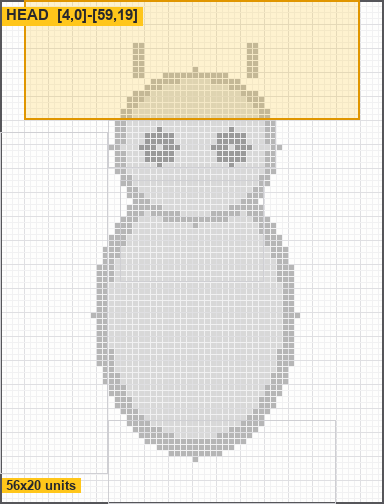
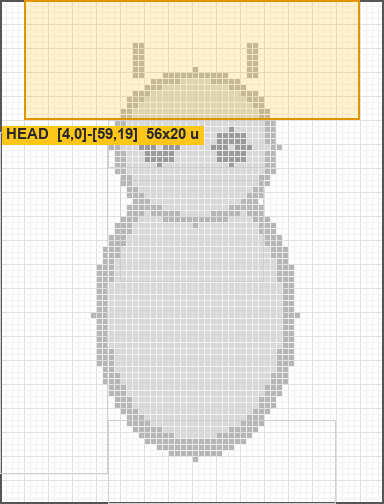
Move the slot-template label clear of the drawable box
The HEAD template's label sat inside the box (the head box spans the whole top),
covering part of the drawable area. Place each slot's label just below its box,
or just above when the box reaches the bottom edge (feet), and merge the two
labels into one line. Regenerated the five slot templates.

Changed region(s): [[0.0, 0.2381, 0.5312, 0.2976], [0.0, 0.0, 0.375, 0.0595], [0.0, 0.9226, 0.2188, 0.9821]]

diff --git a/assets/gen_templates.py b/assets/gen_templates.py
@@ -114,8 +114,14 @@ def slot_template(slot):
 
     x0, y0, x1, y1 = box
     items = [it['name'] for it in avatar.CATALOG if it['slot'] == slot]
-    _label(d, '%s  [%d,%d]-[%d,%d]' % (slot.upper(), x0, y0, x1, y1), (6, 6), font)
-    _label(d, '%dx%d units' % (x1 - x0 + 1, y1 - y0 + 1), (6, H - 26), _font(13))
+    # Keep the label clear of the drawable box: just below it, or just above
+    # when the box reaches the bottom edge (feet). The head box spans the whole
+    # top, so its label lands under the box rather than inside it.
+    l, t, r, b = _box_px(box)
+    text = '%s  [%d,%d]-[%d,%d]  %dx%d u' % (slot.upper(), x0, y0, x1, y1,
+                                             x1 - x0 + 1, y1 - y0 + 1)
+    label_y = b + 6 if b + 28 <= H else max(4, t - 24)
+    _label(d, text, (6, label_y), font)
     return img, items
 
 
